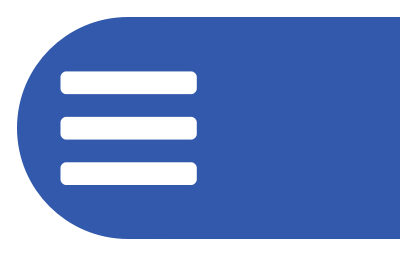
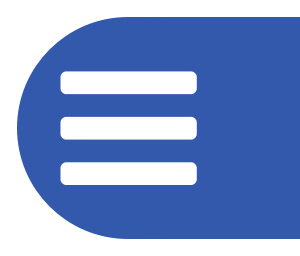
menuknop beweegt mee

diff --git a/js/main.js b/js/main.js
@@ -3,10 +3,14 @@ $(document).ready(function() {
   //Menu openen en sluiten
   var $menu = $(".menu");
   var $menuButton = $(".menuButton");
+  var $menuButtonHeader = $("#menuButtonHeader");
   $menuButton.click(function() {
-    $menu.toggle("slide", {
-      direction: 'right'
-    });
+    $menu.toggle("slide", {direction: 'right'});
+    if ($menuButtonHeader.css("right") == "0px") {
+      $menuButtonHeader.animate({"right":"20%"});
+    } else {
+      $menuButtonHeader.animate({"right":"0"});
+    }
   });
 
   //Groepmenu openen en sluiten
@@ -23,3 +27,4 @@ $(document).ready(function() {
     }
   });
 });
+//$("div").css({"left":"2000px"}).animate({"left":"0px"}, "slow");

diff --git a/index.html b/index.html
@@ -15,7 +15,7 @@
 <body>
   <div class="header">
     <h1>Greijdanus Chat</h1>
-    <button class="menuButton"><img src="images/menuButton.png"></img></button>
+    <button class="menuButton" id="menuButtonHeader"><img src="images/menuButton.png"></img></button>
     <a href="https://www.greijdanus.nl/" target="_blank"><img src="images/greijdanusLogo.png"></img></a>
   </div>
   <div class="content">

diff --git a/css/style.css b/css/style.css
@@ -75,6 +75,11 @@ button:hover {
   margin-right: 15%;
 }
 
+#menuButtonHeader {
+  position: absolute;
+  right: 0px;
+}
+
 /*CONTENT*/
 .content {
   width: 100%;
